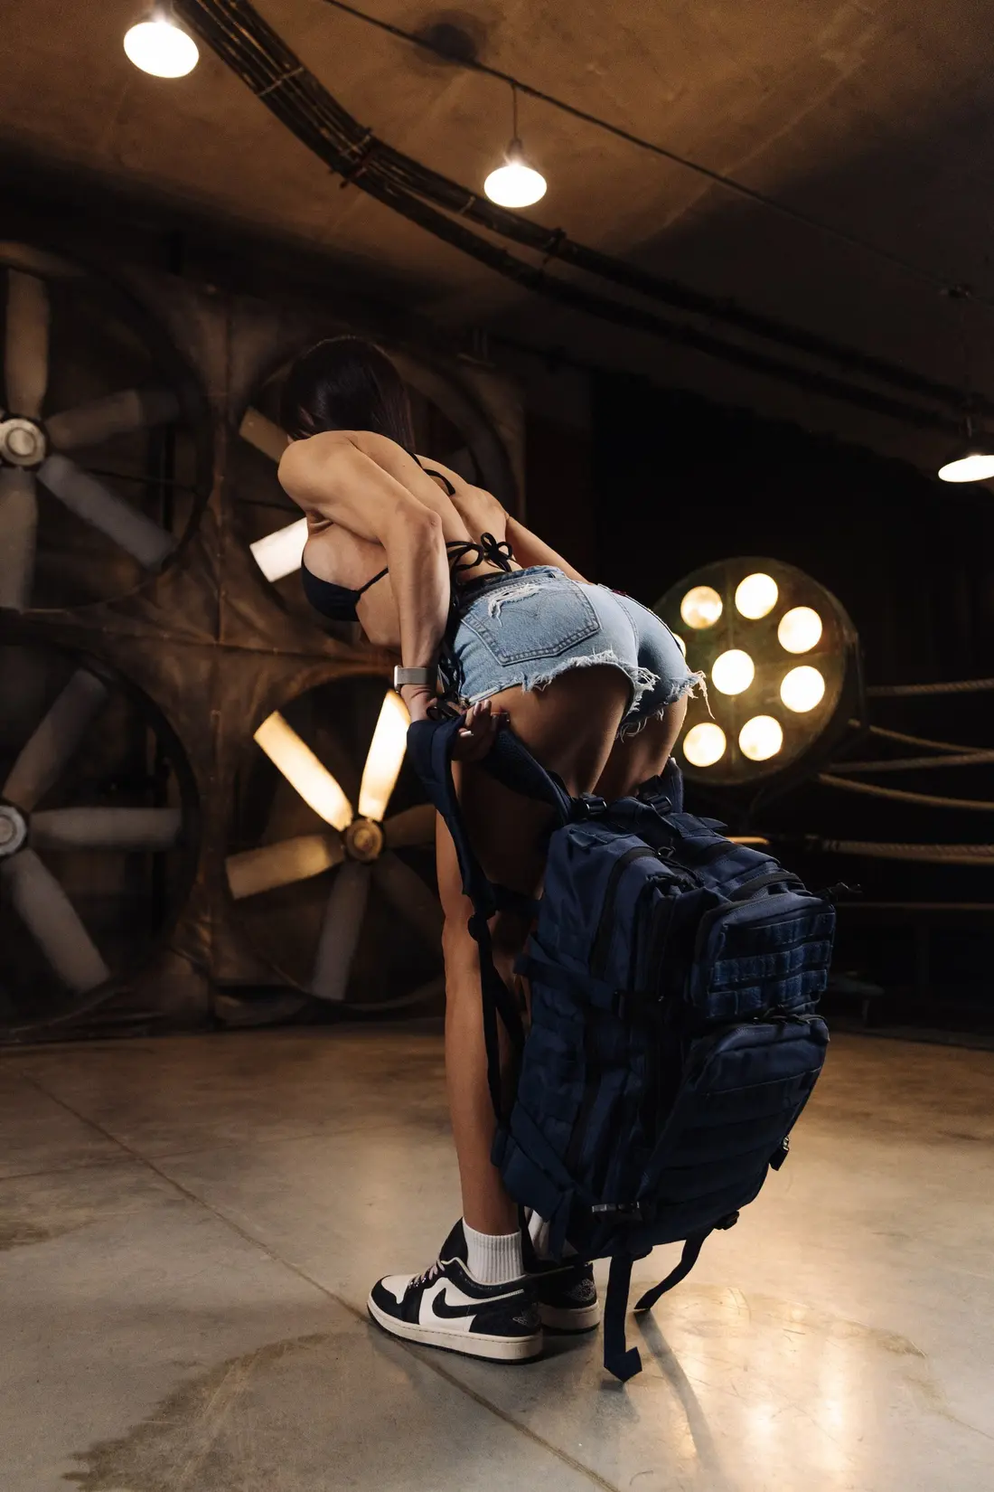
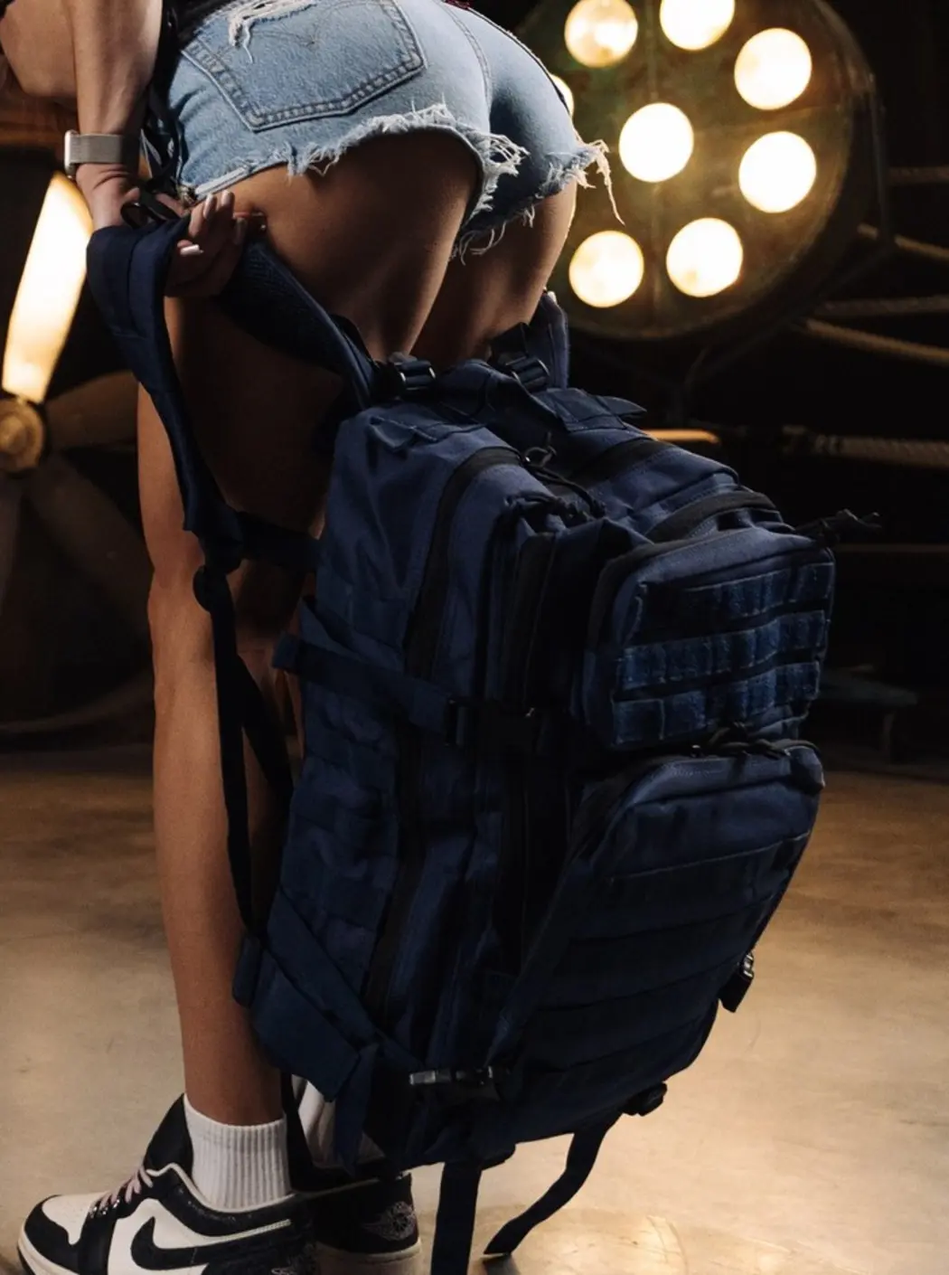
Refine merch storefront and add three verified photos per backpack color

diff --git a/dist/styles.css b/dist/styles.css
@@ -24,24 +24,24 @@ button:focus-visible, a:focus-visible, input:focus-visible, textarea:focus-visib
   display: flex; align-items: center; justify-content: space-between; gap: 20px;
   background: var(--paper); border-bottom: 1px solid var(--line); position: relative; z-index: 20;
 }
-.brand { font-size: 22px; line-height: 1; letter-spacing: -.055em; font-weight: 800; white-space: nowrap; }
-.brand span { font-weight: 500; margin-left: .2em; }
+.brand { display: inline-flex; flex: none; align-items: baseline; gap: .3em; font-size: 22px; line-height: 1.2; letter-spacing: -.045em; font-weight: 800; white-space: nowrap; }
+.brand span { display: block; font-weight: 500; letter-spacing: -.035em; }
 .site-nav { display: flex; align-items: center; gap: clamp(18px, 3.5vw, 56px); font-size: 13px; font-weight: 600; }
 .site-nav a { transition: opacity .2s; }
 .site-nav a:hover { opacity: .5; }
 .cart-trigger { display: flex; gap: 10px; align-items: center; padding: 10px 0; border: 0; background: transparent; color: var(--ink); }
 .cart-count { display: grid; place-items: center; min-width: 23px; height: 23px; border-radius: 50%; background: var(--accent); color: #211d1a; font-size: 10px; padding: 0 5px; }
 
-/* Первый экран: один заголовок, одна фотография */
-.hero { display: grid; grid-template-columns: 1fr 1fr; height: clamp(480px, 70vh, 690px); }
-.hero-copy { min-width: 0; padding: 75px clamp(30px, 6.2vw, 108px); background: var(--soft); display: flex; align-items: flex-start; flex-direction: column; justify-content: center; }
-.hero-label { color: var(--muted); font-size: 10px; font-weight: 700; letter-spacing: .16em; }
-.hero h1 { font-size: clamp(58px, 7vw, 108px); line-height: .98; letter-spacing: -.075em; margin: 23px 0 38px; font-weight: 800; }
-.hero h1 span { display: block; font-weight: 500; letter-spacing: -.065em; }
+/* Первый экран: коллекция сразу видна за коротким ясным заголовком. */
+.hero { position: relative; isolation: isolate; display: flex; align-items: flex-end; height: clamp(385px, 55vh, 565px); overflow: hidden; background: #211d1a; }
+.hero-copy { position: relative; z-index: 1; min-width: 0; padding: 55px clamp(22px, 5vw, 85px) 62px; display: flex; align-items: flex-start; flex-direction: column; justify-content: flex-end; }
+.hero-label { color: #f1e6dc; font-size: 11px; font-weight: 700; letter-spacing: .17em; text-shadow: 0 1px 9px #1d1918; }
+.hero h1 { font-size: clamp(58px, 8.5vw, 124px); line-height: .97; letter-spacing: -.07em; margin: 16px 0 27px; font-weight: 800; text-shadow: 0 2px 20px rgba(0,0,0,.22); }
 .hero-link { display: inline-flex; align-items: center; justify-content: center; min-height: 46px; padding: 13px 22px; border: 1px solid var(--accent); background: var(--accent); color: #211d1a; font-size: 13px; font-weight: 700; transition: background .2s, border-color .2s; }
 .hero-link:hover { background: #f2e9e0; border-color: #f2e9e0; }
-.hero-image { height: 100%; min-height: 0; overflow: hidden; background: #302a26; }
-.hero-image img { display: block; width: 100%; height: 100%; object-fit: cover; object-position: center 56%; }
+.hero-image { position: absolute; inset: 0; z-index: -1; overflow: hidden; }
+.hero-image::after { content: ''; position: absolute; inset: 0; background: linear-gradient(90deg, rgba(13,12,11,.87), rgba(13,12,11,.42) 47%, rgba(13,12,11,.08) 100%), linear-gradient(0deg, rgba(13,12,11,.38), transparent 75%); }
+.hero-image img { display: block; width: 100%; height: 100%; object-fit: cover; object-position: center 79%; }
 
 /* Узкая бегущая строка без декоративных символов */
 .ticker { height: 41px; background: #181512; color: #d9c9b9; display: flex; align-items: center; overflow: hidden; }
@@ -142,9 +142,9 @@ button:focus-visible, a:focus-visible, input:focus-visible, textarea:focus-visib
 .toast.show { opacity: 1; transform: translate(-50%, 0); }
 
 @media (max-width: 900px) {
-  .hero { height: clamp(470px, 65vh, 620px); }
-  .hero-copy { padding: 55px 35px; }
-  .hero h1 { font-size: clamp(53px, 7.3vw, 80px); }
+  .hero { height: clamp(380px, 57vh, 520px); }
+  .hero-copy { padding: 43px 35px; }
+  .hero h1 { font-size: clamp(57px, 9.1vw, 88px); }
   .catalog { padding-top: 65px; }
   .product-grid { grid-template-columns: repeat(2, minmax(0, 1fr)); gap: 34px 18px; }
 }
@@ -154,13 +154,13 @@ button:focus-visible, a:focus-visible, input:focus-visible, textarea:focus-visib
   .site-nav { gap: 16px; font-size: 12px; }
   .cart-trigger { gap: 6px; }
   .cart-count { min-width: 20px; height: 20px; font-size: 10px; }
-  .hero { display: flex; flex-direction: column; height: auto; min-height: 0; }
-  .hero-copy { padding: 36px 23px 41px; min-height: 230px; }
+  .hero { height: min(67svh, 530px); min-height: 390px; }
+  .hero-copy { padding: 33px 23px 37px; }
   .hero-label { font-size: 9px; }
-  .hero h1 { font-size: clamp(57px, 14vw, 74px); margin: 17px 0 25px; }
+  .hero h1 { font-size: clamp(54px, 14vw, 74px); margin: 13px 0 23px; }
   .hero-link { font-size: 12px; min-height: 44px; padding: 12px 18px; }
-  .hero-image { min-height: 0; height: 340px; }
-  .hero-image img { object-position: center 60%; }
+  .hero-image::after { background: linear-gradient(0deg, rgba(13,12,11,.9) 0%, rgba(13,12,11,.3) 56%, rgba(13,12,11,.06) 100%); }
+  .hero-image img { object-position: center 56%; }
   .ticker { height: 34px; }
   .ticker-track span { font-size: 9px; }
   .catalog { padding: 51px 17px 75px; }
@@ -184,6 +184,11 @@ button:focus-visible, a:focus-visible, input:focus-visible, textarea:focus-visib
   .modal-details h2 { font-size: 25px; margin: 11px 0; }
   .modal-details .modal-note { margin: 17px 0; }
   .modal-close { background: #39312b; right: 10px; top: 10px; }
+}
+@media (max-width: 360px) {
+  .site-header { padding: 0 12px; gap: 8px; }
+  .brand { font-size: 15px; }
+  .site-nav { gap: 9px; font-size: 11px; }
 }
 @media (prefers-reduced-motion: reduce) {
   html { scroll-behavior: auto; }

diff --git a/styles.css b/styles.css
@@ -24,24 +24,24 @@ button:focus-visible, a:focus-visible, input:focus-visible, textarea:focus-visib
   display: flex; align-items: center; justify-content: space-between; gap: 20px;
   background: var(--paper); border-bottom: 1px solid var(--line); position: relative; z-index: 20;
 }
-.brand { font-size: 22px; line-height: 1; letter-spacing: -.055em; font-weight: 800; white-space: nowrap; }
-.brand span { font-weight: 500; margin-left: .2em; }
+.brand { display: inline-flex; flex: none; align-items: baseline; gap: .3em; font-size: 22px; line-height: 1.2; letter-spacing: -.045em; font-weight: 800; white-space: nowrap; }
+.brand span { display: block; font-weight: 500; letter-spacing: -.035em; }
 .site-nav { display: flex; align-items: center; gap: clamp(18px, 3.5vw, 56px); font-size: 13px; font-weight: 600; }
 .site-nav a { transition: opacity .2s; }
 .site-nav a:hover { opacity: .5; }
 .cart-trigger { display: flex; gap: 10px; align-items: center; padding: 10px 0; border: 0; background: transparent; color: var(--ink); }
 .cart-count { display: grid; place-items: center; min-width: 23px; height: 23px; border-radius: 50%; background: var(--accent); color: #211d1a; font-size: 10px; padding: 0 5px; }
 
-/* Первый экран: один заголовок, одна фотография */
-.hero { display: grid; grid-template-columns: 1fr 1fr; height: clamp(480px, 70vh, 690px); }
-.hero-copy { min-width: 0; padding: 75px clamp(30px, 6.2vw, 108px); background: var(--soft); display: flex; align-items: flex-start; flex-direction: column; justify-content: center; }
-.hero-label { color: var(--muted); font-size: 10px; font-weight: 700; letter-spacing: .16em; }
-.hero h1 { font-size: clamp(58px, 7vw, 108px); line-height: .98; letter-spacing: -.075em; margin: 23px 0 38px; font-weight: 800; }
-.hero h1 span { display: block; font-weight: 500; letter-spacing: -.065em; }
+/* Первый экран: коллекция сразу видна за коротким ясным заголовком. */
+.hero { position: relative; isolation: isolate; display: flex; align-items: flex-end; height: clamp(385px, 55vh, 565px); overflow: hidden; background: #211d1a; }
+.hero-copy { position: relative; z-index: 1; min-width: 0; padding: 55px clamp(22px, 5vw, 85px) 62px; display: flex; align-items: flex-start; flex-direction: column; justify-content: flex-end; }
+.hero-label { color: #f1e6dc; font-size: 11px; font-weight: 700; letter-spacing: .17em; text-shadow: 0 1px 9px #1d1918; }
+.hero h1 { font-size: clamp(58px, 8.5vw, 124px); line-height: .97; letter-spacing: -.07em; margin: 16px 0 27px; font-weight: 800; text-shadow: 0 2px 20px rgba(0,0,0,.22); }
 .hero-link { display: inline-flex; align-items: center; justify-content: center; min-height: 46px; padding: 13px 22px; border: 1px solid var(--accent); background: var(--accent); color: #211d1a; font-size: 13px; font-weight: 700; transition: background .2s, border-color .2s; }
 .hero-link:hover { background: #f2e9e0; border-color: #f2e9e0; }
-.hero-image { height: 100%; min-height: 0; overflow: hidden; background: #302a26; }
-.hero-image img { display: block; width: 100%; height: 100%; object-fit: cover; object-position: center 56%; }
+.hero-image { position: absolute; inset: 0; z-index: -1; overflow: hidden; }
+.hero-image::after { content: ''; position: absolute; inset: 0; background: linear-gradient(90deg, rgba(13,12,11,.87), rgba(13,12,11,.42) 47%, rgba(13,12,11,.08) 100%), linear-gradient(0deg, rgba(13,12,11,.38), transparent 75%); }
+.hero-image img { display: block; width: 100%; height: 100%; object-fit: cover; object-position: center 79%; }
 
 /* Узкая бегущая строка без декоративных символов */
 .ticker { height: 41px; background: #181512; color: #d9c9b9; display: flex; align-items: center; overflow: hidden; }
@@ -142,9 +142,9 @@ button:focus-visible, a:focus-visible, input:focus-visible, textarea:focus-visib
 .toast.show { opacity: 1; transform: translate(-50%, 0); }
 
 @media (max-width: 900px) {
-  .hero { height: clamp(470px, 65vh, 620px); }
-  .hero-copy { padding: 55px 35px; }
-  .hero h1 { font-size: clamp(53px, 7.3vw, 80px); }
+  .hero { height: clamp(380px, 57vh, 520px); }
+  .hero-copy { padding: 43px 35px; }
+  .hero h1 { font-size: clamp(57px, 9.1vw, 88px); }
   .catalog { padding-top: 65px; }
   .product-grid { grid-template-columns: repeat(2, minmax(0, 1fr)); gap: 34px 18px; }
 }
@@ -154,13 +154,13 @@ button:focus-visible, a:focus-visible, input:focus-visible, textarea:focus-visib
   .site-nav { gap: 16px; font-size: 12px; }
   .cart-trigger { gap: 6px; }
   .cart-count { min-width: 20px; height: 20px; font-size: 10px; }
-  .hero { display: flex; flex-direction: column; height: auto; min-height: 0; }
-  .hero-copy { padding: 36px 23px 41px; min-height: 230px; }
+  .hero { height: min(67svh, 530px); min-height: 390px; }
+  .hero-copy { padding: 33px 23px 37px; }
   .hero-label { font-size: 9px; }
-  .hero h1 { font-size: clamp(57px, 14vw, 74px); margin: 17px 0 25px; }
+  .hero h1 { font-size: clamp(54px, 14vw, 74px); margin: 13px 0 23px; }
   .hero-link { font-size: 12px; min-height: 44px; padding: 12px 18px; }
-  .hero-image { min-height: 0; height: 340px; }
-  .hero-image img { object-position: center 60%; }
+  .hero-image::after { background: linear-gradient(0deg, rgba(13,12,11,.9) 0%, rgba(13,12,11,.3) 56%, rgba(13,12,11,.06) 100%); }
+  .hero-image img { object-position: center 56%; }
   .ticker { height: 34px; }
   .ticker-track span { font-size: 9px; }
   .catalog { padding: 51px 17px 75px; }
@@ -184,6 +184,11 @@ button:focus-visible, a:focus-visible, input:focus-visible, textarea:focus-visib
   .modal-details h2 { font-size: 25px; margin: 11px 0; }
   .modal-details .modal-note { margin: 17px 0; }
   .modal-close { background: #39312b; right: 10px; top: 10px; }
+}
+@media (max-width: 360px) {
+  .site-header { padding: 0 12px; gap: 8px; }
+  .brand { font-size: 15px; }
+  .site-nav { gap: 9px; font-size: 11px; }
 }
 @media (prefers-reduced-motion: reduce) {
   html { scroll-behavior: auto; }

diff --git a/dist/main.js b/dist/main.js
@@ -1,15 +1,15 @@
 // Каталог: новые товары и категории добавляются в этот массив.
 // Стоимость, наличие и спецификации не публикуем до подтверждения руководителем.
 const products = [
-  {id:'blue-camo',name:'Синий камуфляж',color:'Сине-голубой камуфляж',image:'blue-camo.webp',gallery:['hero.webp','campaign.webp'],category:'backpack'},
-  {id:'pink',name:'Розовый',color:'Розовый',image:'pink.webp',gallery:['lifestyle.webp','campaign.webp'],category:'backpack'},
-  {id:'black-red',name:'Красно-чёрный',color:'Красно-чёрный',image:'black-red.webp',gallery:['campaign.webp'],category:'backpack'},
-  {id:'grey',name:'Серый камуфляж',color:'Серый камуфляж',image:'grey.webp',gallery:['campaign.webp'],category:'backpack'},
-  {id:'red',name:'Красный',color:'Красный',image:'red.webp',gallery:['campaign.webp'],category:'backpack'},
-  {id:'purple',name:'Фиолетовый',color:'Фиолетовый',image:'purple.webp',gallery:['campaign.webp'],category:'backpack'},
-  {id:'navy',name:'Тёмно-синий',color:'Тёмно-синий',image:'navy.webp',gallery:['campaign.webp'],category:'backpack'},
-  {id:'turquoise',name:'Бирюзовый',color:'Бирюзовый',image:'turquoise.webp',gallery:['lifestyle.webp','campaign.webp'],category:'backpack'},
-  {id:'yellow',name:'Жёлтый',color:'Жёлтый',image:'yellow.webp',gallery:['detail.webp','lifestyle.webp'],category:'backpack'}
+  {id:'blue-camo',name:'Синий камуфляж',color:'Сине-голубой камуфляж',image:'blue-camo.webp',gallery:['blue-camo-2.webp','blue-camo-3.webp'],category:'backpack'},
+  {id:'pink',name:'Розовый',color:'Розовый',image:'pink.webp',gallery:['pink-2.webp','pink-3.webp'],category:'backpack'},
+  {id:'black-red',name:'Красно-чёрный',color:'Красно-чёрный',image:'black-red.webp',gallery:['black-red-2.webp','black-red-3.webp'],category:'backpack'},
+  {id:'grey',name:'Серый камуфляж',color:'Серый камуфляж',image:'grey.webp',gallery:['grey-2.webp','grey-3.webp'],category:'backpack'},
+  {id:'red',name:'Красный',color:'Красный',image:'red.webp',gallery:['red-2.webp','red-3.webp'],category:'backpack'},
+  {id:'purple',name:'Фиолетовый',color:'Фиолетовый',image:'purple.webp',gallery:['purple-2.webp','purple-3.webp'],category:'backpack'},
+  {id:'navy',name:'Тёмно-синий',color:'Тёмно-синий',image:'navy.webp',gallery:['navy-2.webp','navy-3.webp'],category:'backpack'},
+  {id:'turquoise',name:'Бирюзовый',color:'Бирюзовый',image:'turquoise.webp',gallery:['turquoise-2.webp','turquoise-3.webp'],category:'backpack'},
+  {id:'yellow',name:'Жёлтый',color:'Жёлтый',image:'yellow.webp',gallery:['yellow-2.webp','yellow-3.webp'],category:'backpack'}
 ];
 
 const $ = (s)=>document.querySelector(s);

diff --git a/main.js b/main.js
@@ -1,15 +1,15 @@
 // Каталог: новые товары и категории добавляются в этот массив.
 // Стоимость, наличие и спецификации не публикуем до подтверждения руководителем.
 const products = [
-  {id:'blue-camo',name:'Синий камуфляж',color:'Сине-голубой камуфляж',image:'blue-camo.webp',gallery:['hero.webp','campaign.webp'],category:'backpack'},
-  {id:'pink',name:'Розовый',color:'Розовый',image:'pink.webp',gallery:['lifestyle.webp','campaign.webp'],category:'backpack'},
-  {id:'black-red',name:'Красно-чёрный',color:'Красно-чёрный',image:'black-red.webp',gallery:['campaign.webp'],category:'backpack'},
-  {id:'grey',name:'Серый камуфляж',color:'Серый камуфляж',image:'grey.webp',gallery:['campaign.webp'],category:'backpack'},
-  {id:'red',name:'Красный',color:'Красный',image:'red.webp',gallery:['campaign.webp'],category:'backpack'},
-  {id:'purple',name:'Фиолетовый',color:'Фиолетовый',image:'purple.webp',gallery:['campaign.webp'],category:'backpack'},
-  {id:'navy',name:'Тёмно-синий',color:'Тёмно-синий',image:'navy.webp',gallery:['campaign.webp'],category:'backpack'},
-  {id:'turquoise',name:'Бирюзовый',color:'Бирюзовый',image:'turquoise.webp',gallery:['lifestyle.webp','campaign.webp'],category:'backpack'},
-  {id:'yellow',name:'Жёлтый',color:'Жёлтый',image:'yellow.webp',gallery:['detail.webp','lifestyle.webp'],category:'backpack'}
+  {id:'blue-camo',name:'Синий камуфляж',color:'Сине-голубой камуфляж',image:'blue-camo.webp',gallery:['blue-camo-2.webp','blue-camo-3.webp'],category:'backpack'},
+  {id:'pink',name:'Розовый',color:'Розовый',image:'pink.webp',gallery:['pink-2.webp','pink-3.webp'],category:'backpack'},
+  {id:'black-red',name:'Красно-чёрный',color:'Красно-чёрный',image:'black-red.webp',gallery:['black-red-2.webp','black-red-3.webp'],category:'backpack'},
+  {id:'grey',name:'Серый камуфляж',color:'Серый камуфляж',image:'grey.webp',gallery:['grey-2.webp','grey-3.webp'],category:'backpack'},
+  {id:'red',name:'Красный',color:'Красный',image:'red.webp',gallery:['red-2.webp','red-3.webp'],category:'backpack'},
+  {id:'purple',name:'Фиолетовый',color:'Фиолетовый',image:'purple.webp',gallery:['purple-2.webp','purple-3.webp'],category:'backpack'},
+  {id:'navy',name:'Тёмно-синий',color:'Тёмно-синий',image:'navy.webp',gallery:['navy-2.webp','navy-3.webp'],category:'backpack'},
+  {id:'turquoise',name:'Бирюзовый',color:'Бирюзовый',image:'turquoise.webp',gallery:['turquoise-2.webp','turquoise-3.webp'],category:'backpack'},
+  {id:'yellow',name:'Жёлтый',color:'Жёлтый',image:'yellow.webp',gallery:['yellow-2.webp','yellow-3.webp'],category:'backpack'}
 ];
 
 const $ = (s)=>document.querySelector(s);

diff --git a/dist/index.html b/dist/index.html
@@ -13,7 +13,7 @@
 </head>
 <body>
   <header class="site-header" id="top">
-    <a class="brand" href="#top" aria-label="NIKIFOROV TEAM — главная">NIKIFOROV <span>TEAM</span></a>
+    <a class="brand" href="#top" aria-label="NIKIFOROV TEAM — главная">NIKIFOROV<span>TEAM</span></a>
     <nav class="site-nav" aria-label="Основная навигация">
       <a href="#catalog">Каталог</a>
       <button class="cart-trigger" id="openCart" type="button">Заявка <span class="cart-count" id="cartCount">0</span></button>
@@ -22,13 +22,13 @@
 
   <main>
     <section class="hero" aria-labelledby="heroTitle">
-      <div class="hero-copy">
-        <span class="hero-label">MERCH COLLECTION</span>
-        <h1 id="heroTitle">ТВОЙ <span>ЦВЕТ.</span></h1>
-        <a class="hero-link" href="#catalog">Смотреть каталог</a>
-      </div>
       <div class="hero-image">
-        <img src="./assets/campaign.webp" alt="Рюкзаки NIKIFOROV разных цветов из новой коллекции" fetchpriority="high">
+        <img src="./assets/campaign.webp" alt="Коллекция рюкзаков NIKIFOROV TEAM в разных цветах" fetchpriority="high">
+      </div>
+      <div class="hero-copy">
+        <span class="hero-label">КОЛЛЕКЦИЯ · 9 ЦВЕТОВ</span>
+        <h1 id="heroTitle">РЮКЗАКИ</h1>
+        <a class="hero-link" href="#catalog">Смотреть каталог</a>
       </div>
     </section>
 

diff --git a/index.html b/index.html
@@ -13,7 +13,7 @@
 </head>
 <body>
   <header class="site-header" id="top">
-    <a class="brand" href="#top" aria-label="NIKIFOROV TEAM — главная">NIKIFOROV <span>TEAM</span></a>
+    <a class="brand" href="#top" aria-label="NIKIFOROV TEAM — главная">NIKIFOROV<span>TEAM</span></a>
     <nav class="site-nav" aria-label="Основная навигация">
       <a href="#catalog">Каталог</a>
       <button class="cart-trigger" id="openCart" type="button">Заявка <span class="cart-count" id="cartCount">0</span></button>
@@ -22,13 +22,13 @@
 
   <main>
     <section class="hero" aria-labelledby="heroTitle">
-      <div class="hero-copy">
-        <span class="hero-label">MERCH COLLECTION</span>
-        <h1 id="heroTitle">ТВОЙ <span>ЦВЕТ.</span></h1>
-        <a class="hero-link" href="#catalog">Смотреть каталог</a>
-      </div>
       <div class="hero-image">
-        <img src="./assets/campaign.webp" alt="Рюкзаки NIKIFOROV разных цветов из новой коллекции" fetchpriority="high">
+        <img src="./assets/campaign.webp" alt="Коллекция рюкзаков NIKIFOROV TEAM в разных цветах" fetchpriority="high">
+      </div>
+      <div class="hero-copy">
+        <span class="hero-label">КОЛЛЕКЦИЯ · 9 ЦВЕТОВ</span>
+        <h1 id="heroTitle">РЮКЗАКИ</h1>
+        <a class="hero-link" href="#catalog">Смотреть каталог</a>
       </div>
     </section>
 

diff --git a/README.md b/README.md
@@ -6,7 +6,7 @@
 
 - Адаптивная фотогалерея и простой каталог рюкзаков без дополнительных рекламных секций.
 - Небольшая бегущая строка с нейтральной подписью, которую можно заменить позже.
-- Несколько настоящих фотографий для каждого рюкзака: переключение точками, просмотр миниатюр и свайп на телефоне. Пока дополнительные кадры взяты из общих фотографий коллекции; индивидуальные ракурсы можно добавить в `gallery` товара.
+- Для каждого из девяти цветов — ровно три фотографии именно этого рюкзака из оригинальной съёмки. Переключение точками, просмотр миниатюр и свайп на телефоне.
 - Подробный просмотр товара и выбор количества.
 - Корзина-заявка с сохранением выбранных товаров в браузере.
 - Подготовка текста заявки с именем, телефоном или Telegram и комментарием.
